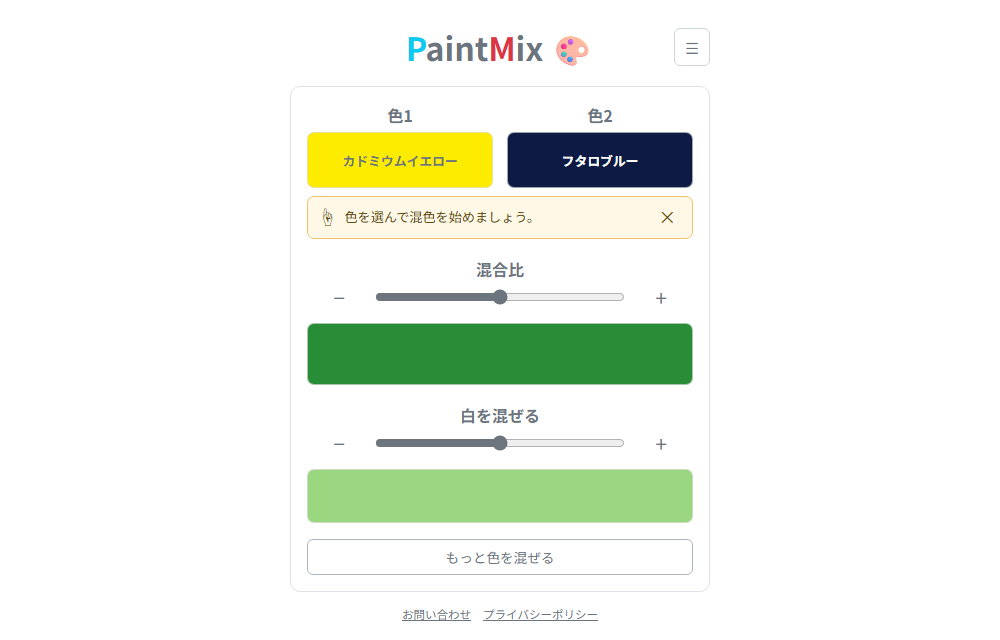
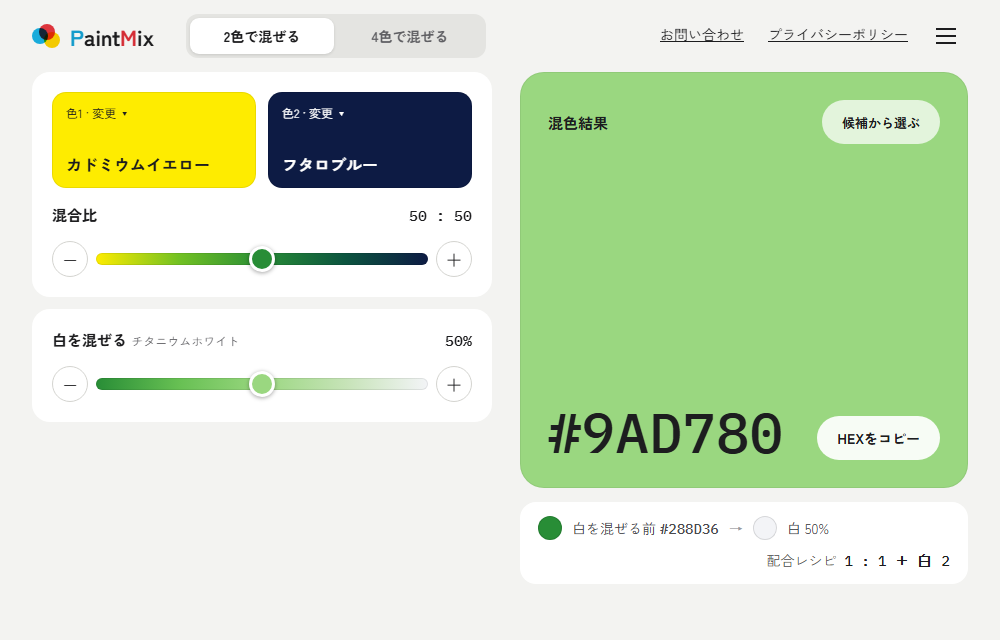
feat: update PaintMix screenshot
- PaintMix のスクリーンショットを最新版（2色 / 4色の切り替え、混色結果パネル、配合レシピ）に差し替え
- スクリーンショットの alt を新しい画面に合わせて更新

diff --git a/src/content/ja.ts b/src/content/ja.ts
@@ -306,7 +306,7 @@ export const ja: SiteContent = {
       ],
       screenshot: {
         src: '/images/projects/paintmix.png',
-        alt: 'PaintMixの画面。2色の絵の具を選び、混合比と白を混ぜる量のスライダーで混色結果を確認できる。',
+        alt: 'PaintMixの画面。左側で2色の絵の具と混合比・白を混ぜる量を調整し、右側に混色結果の色とHEX値、配合レシピが表示されている。',
         width: 1000,
         height: 640,
       },
